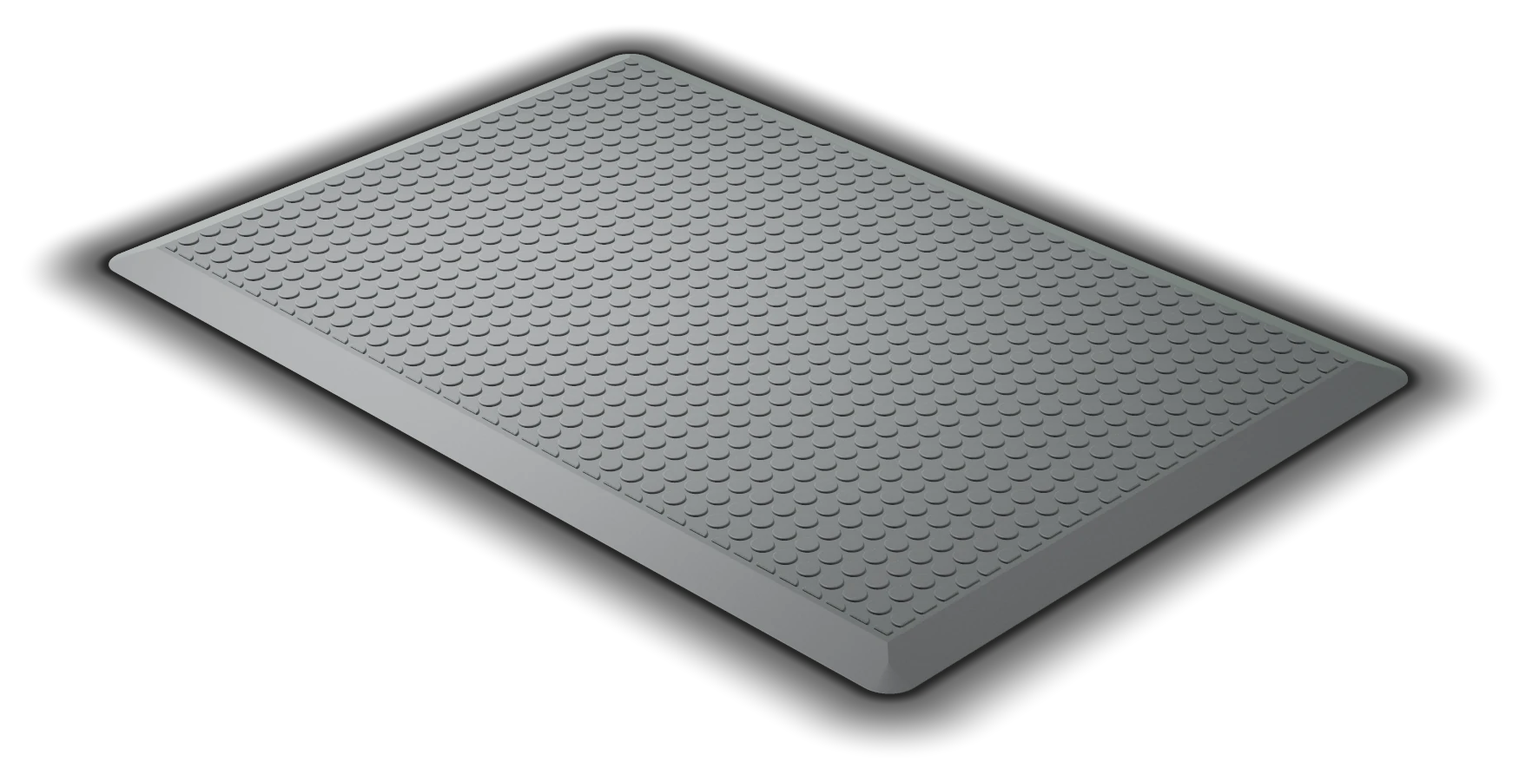
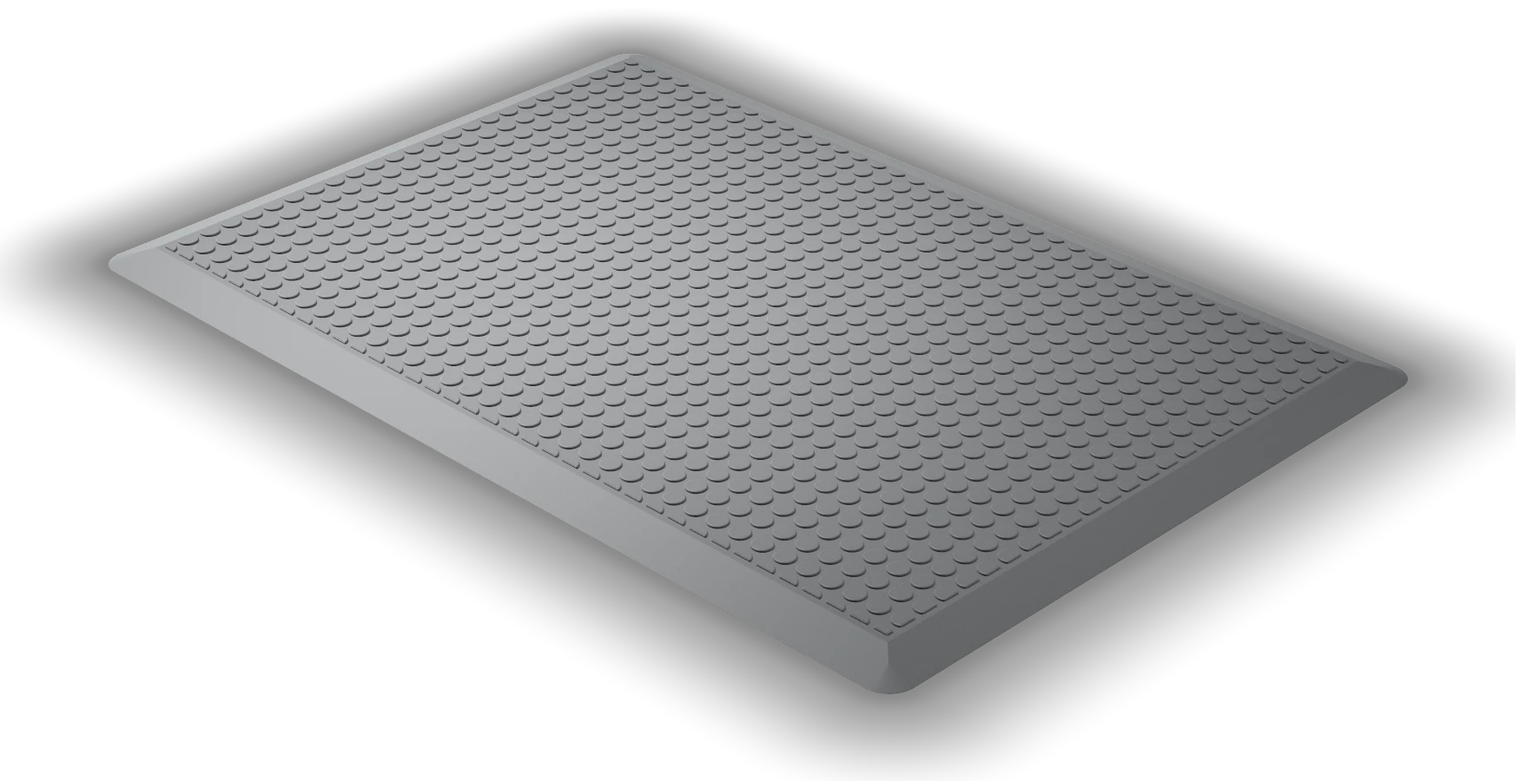
ergokomfort TOP-FIX (B): one-colour H1, neutral studio-lit mat, no glow, scrolls with the hero
H1 second line no longer italic or accent-coloured. Colours unchanged (logo
green). render_b.js re-renders the FN-PLUS mat exactly as sent (1792x1280,
SS3, crop 47,274): no green environment panel or green fresnel tint (a dim
neutral rim instead); the contact shadow is now faint, wide and soft.
field.js: the slate ambient glow and the breathing green pool are removed,
~3% neutral falloff, step 5 object scroll. The rebuild brings in the
sent-site loader exit from 8485a474.

Claude-Session: https://claude.ai/code/session_014388NGuukaXUUfs7gJG6bC

Changed region(s): [[0.0, 0.0, 1.0, 0.9956]]

diff --git a/_kit/home/ergokomfort/render_b.js b/_kit/home/ergokomfort/render_b.js
@@ -1,0 +1,110 @@
+/* Offline render of the Ergokomfort hero (HOME_BRIEF update option c, PRINCIPLES DS/DD/DT): the firm's own product, the
+   ERGOKOMFORT FN-PLUS workplace mat as specified on ergokomfort.de/arbeitsplatzmatten (about 96 x 66 cm, 12 mm, grey foamed
+   polyurethane, a field of flat round buttons, a bevelled ramp on every side). One calm object lying on an unseen floor, lit
+   by a studio softbox; raymarched in GLSL, real alpha including its soft contact shadow, so no box edge (DJ/DP).
+   Run: node _kit/home/ergokomfort/render.js out.png 1400 1000 3
+   TOP-FIX B (2026-11-27): render_b.js, neutral (no green env panel or fresnel tint), faint wide soft shadow.
+   Hero: node render_b.js out.png 1792 1280 3, crop (47,274,1796,1174). */
+const {chromium}=require('playwright');const fs=require('fs');const path=require('path');
+const W=+(process.argv[3]||1400),H=+(process.argv[4]||1100),SS=+(process.argv[5]||3);
+const FS=`
+precision highp float;
+uniform vec2 R;
+#define PI 3.14159265
+/* the ERGOKOMFORT FN-PLUS: about 96 x 66 cm, 12 mm, grey foamed PUR, flat round buttons, a bevelled ramp on every side */
+const float HX=.96,HZ=.66,TH=.030,BV=.075,PITCH=.048,BR=.0165,BH=.0026,CR=.05;
+float rb2(vec2 p,vec2 b,float r){vec2 q=abs(p)-b+r;return length(max(q,0.))+min(max(q.x,q.y),0.)-r;}
+float HIT=0.;
+float slab(vec3 p){
+  float e=-rb2(p.xz,vec2(HX,HZ),CR);           /* inward distance from the outer edge */
+  float top=TH*clamp(e/BV,0.,1.);              /* the bevel ramps up over BV, then the flat top */
+  top=mix(top,TH,0.)+.0016*smoothstep(0.,.006,e)*(1.-smoothstep(BV-.004,BV+.004,e))*0.;
+  float d=max(-e, max(-p.y, p.y-top));
+  return d*.55;}
+float btn(vec3 p){
+  float e=-rb2(p.xz,vec2(HX,HZ),CR);
+  vec2 g=p.xz/PITCH;vec2 c=(fract(g+.5)-.5)*PITCH;
+  float inside=step(BV+.012,e);
+  float r=length(c)-BR;float h=p.y-(TH+BH);
+  float d=length(max(vec2(r,h),0.))+min(max(r,h),0.)-.0022;
+  d=max(d,TH-.002-p.y);
+  return inside>.5?d:1.;}
+float map(vec3 p){float a=slab(p),b=btn(p);HIT=b<a?1.:0.;return min(a,b);}
+float mapd(vec3 p){float s=HIT;float d=map(p);HIT=s;return d;}
+vec3 nrm(vec3 p){vec2 e=vec2(.0004,0.);return normalize(vec3(mapd(p+e.xyy)-mapd(p-e.xyy),mapd(p+e.yxy)-mapd(p-e.yxy),mapd(p+e.yyx)-mapd(p-e.yyx)));}
+float box2(vec2 p,vec2 c,vec2 h,float s){vec2 d=abs(p-c)-h;float o=length(max(d,0.))+min(max(d.x,d.y),0.);return 1.-smoothstep(-s,s,o);}
+vec3 GR=vec3(.20,.70,.30);
+vec3 env(vec3 d){float az=atan(d.x,d.z),el=asin(clamp(d.y,-1.,1.));vec3 c=vec3(.006,.009,.008)+vec3(.03,.035,.034)*max(d.y,0.);
+  c+=vec3(1.,.99,.97)*1.8*box2(vec2(az,el),vec2(-.7,.95),vec2(.80,.35),.35);
+  c+=vec3(.95,.97,1.)*.6*box2(vec2(az,el),vec2(1.2,.35),vec2(.35,.22),.25);
+  /* TOP-FIX B: no green panel; a dim neutral rim box behind on the far side */
+  c+=vec3(.5)*box2(vec2(az,el),vec2(2.6,.15),vec2(.5,.4),.35);
+  return c;}
+vec3 L1=normalize(vec3(-.55,.85,.35)),L2=normalize(vec3(.75,.35,-.2));
+float ggx(vec3 n,vec3 v,vec3 l,float r){vec3 h=normalize(v+l);float a=r*r,nh=max(dot(n,h),0.);float dd=nh*nh*(a*a-1.)+1.;return a*a/(PI*dd*dd);}
+float ao(vec3 p,vec3 n){float o=0.,s=1.;for(int i=1;i<5;i++){float h=.004*float(i);o+=(h-mapd(p+n*h))*s;s*=.7;}return clamp(1.-6.*o,0.,1.);}
+float sha(vec3 p,vec3 l){float r=1.,t=.004;for(int i=0;i<64;i++){float h=mapd(p+l*t);r=min(r,14.*h/t);t+=clamp(h,.002,.05);if(r<.01||t>2.)break;}return clamp(r,0.,1.);}
+vec3 aces(vec3 x){return clamp((x*(2.51*x+.03))/(x*(2.43*x+.59)+.14),0.,1.);}
+vec4 trace(vec3 ro,vec3 rd){
+  float t=0.,d;bool hit=false;
+  /* start at the bounding box */
+  for(int i=0;i<400;i++){vec3 p=ro+rd*t;d=map(p);if(d<.00015){hit=true;break;}t+=d;if(t>12.)break;}
+  if(!hit){
+    /* a soft contact shadow on the (invisible) floor, as real alpha */
+    if(rd.y<0.){float tf=-ro.y/rd.y;vec3 q=ro+rd*tf;float e=rb2(q.xz,vec2(HX,HZ),CR);
+      /* TOP-FIX B: a very faint, wide, soft cast shadow (no dark rim hugging the edge) */
+      float s=(1.-smoothstep(-.02,.26,e))*.40+(1.-smoothstep(0.,.05,e))*.06;
+      float s2=1.-sha(q+vec3(0.,.001,0.),L1);s=max(s,s2*.22*(1.-smoothstep(0.,.5,e)));
+      return vec4(vec3(0.),clamp(s,0.,.85));}
+    return vec4(0.);}
+  vec3 p=ro+rd*t,v=-rd;float hb=HIT;vec3 n=nrm(p);
+  /* foamed PUR, mid grey; a faint micro-grain so it reads as a soft material, not plastic */
+  float gr=fract(sin(dot(floor(p.xz*900.),vec2(12.9898,78.233)))*43758.5453);
+  vec3 base=vec3(.135,.14,.145)*(.94+.1*gr);float rough=.66;
+  /* a studio pool of light: brightest toward the near-left corner, falling off across the mat */
+  float pool=mix(.30,1.35,exp(-dot(p.xz-vec2(-.35,.25),p.xz-vec2(-.35,.25))*1.1));
+  float oc=ao(p,n);vec3 col=vec3(0.);
+  float nv=max(dot(n,v),0.);vec3 F=vec3(.035)+(1.-vec3(.035))*pow(1.-nv,5.);
+  for(int i=0;i<2;i++){vec3 l=i==0?L1:L2;float k=i==0?1.5:.30;
+    float dl=max(dot(n,l),0.);float sh=i==0?mix(.15,1.,sha(p+n*.0015,l)):1.;
+    col+=k*sh*(i==0?pool:1.)*(base/PI*3.*dl+F*ggx(n,v,l,rough)*.9);}
+  vec3 r=reflect(rd,n);col+=env(r)*F*.6*oc;
+  col+=base*.06*oc;
+  col+=vec3(.04)*pow(1.-nv,3.)*oc;
+  col*=mix(.45,1.,oc);
+  return vec4(col,1.);}
+void main(){
+  vec3 ta=vec3(0.,0.,0.);
+  float az=.78,el=.50,dist=5.6;
+  vec3 ro0=ta+dist*vec3(sin(az)*cos(el),sin(el),cos(az)*cos(el));
+  vec3 ww=normalize(ta-ro0),uu=normalize(cross(ww,vec3(0,1,0))),vv=cross(uu,ww);
+  vec4 acc=vec4(0.);float n=float(${SS});
+  for(int j=0;j<${SS};j++)for(int i=0;i<${SS};i++){
+    vec2 o=(vec2(float(i),float(j))+.5)/n-.5;
+    vec2 uv=(gl_FragCoord.xy+o-.5*R)/R.y;
+    vec3 rd=normalize(uv.x*uu+uv.y*vv+2.9*ww);
+    vec4 s=trace(ro0,rd);acc+=vec4(s.rgb*s.a,s.a);}
+  acc/=n*n;vec3 c=acc.a>0.?acc.rgb/acc.a:vec3(0.);
+  c=pow(aces(c*1.12),vec3(1./2.2));
+  gl_FragColor=vec4(c,acc.a);}
+`;
+const PAGE=`<!doctype html><html><body style="margin:0;background:transparent"><canvas id="c" width="${W}" height="${H}"></canvas><script>
+const cv=document.getElementById('c');const gl=cv.getContext('webgl',{preserveDrawingBuffer:true,premultipliedAlpha:false,alpha:true,antialias:false});
+function sh(t,s){const o=gl.createShader(t);gl.shaderSource(o,s);gl.compileShader(o);if(!gl.getShaderParameter(o,gl.COMPILE_STATUS))throw Error(gl.getShaderInfoLog(o));return o}
+const pr=gl.createProgram();gl.attachShader(pr,sh(gl.VERTEX_SHADER,'attribute vec2 a;void main(){gl_Position=vec4(a,0.,1.);}'));
+gl.attachShader(pr,sh(gl.FRAGMENT_SHADER,${JSON.stringify(FS)}));gl.linkProgram(pr);if(!gl.getProgramParameter(pr,gl.LINK_STATUS))throw Error(gl.getProgramInfoLog(pr));gl.useProgram(pr);
+const b=gl.createBuffer();gl.bindBuffer(gl.ARRAY_BUFFER,b);gl.bufferData(gl.ARRAY_BUFFER,new Float32Array([-1,-1,1,-1,-1,1,1,1]),gl.STATIC_DRAW);
+const al=gl.getAttribLocation(pr,'a');gl.enableVertexAttribArray(al);gl.vertexAttribPointer(al,2,gl.FLOAT,false,0,0);
+gl.uniform2f(gl.getUniformLocation(pr,'R'),${W},${H});
+gl.clearColor(0,0,0,0);gl.clear(gl.COLOR_BUFFER_BIT);gl.enable(gl.SCISSOR_TEST);
+const T=40;let y=0;(function tile(){if(y>=${H}){window.__done=cv.toDataURL('image/png');return}gl.scissor(0,y,${W},T);gl.drawArrays(gl.TRIANGLE_STRIP,0,4);gl.finish();y+=T;setTimeout(tile,0)})();
+</script></body></html>`;
+(async()=>{
+const b=await chromium.launch({args:['--use-gl=angle','--use-angle=swiftshader','--enable-unsafe-swiftshader','--ignore-gpu-blocklist','--disable-gpu-watchdog']});
+const p=await b.newPage({viewport:{width:800,height:600}});
+p.on('console',m=>{if(!/Performance/.test(m.text()))console.log('page:',m.text())});p.on('pageerror',e=>{console.log('err',e.message);process.exit(1)});
+await p.setContent(PAGE);
+await p.waitForFunction(()=>window.__done,null,{timeout:3600000,polling:1000});
+const out=process.argv[2]||path.join(__dirname,'render.png');
+fs.writeFileSync(out,Buffer.from((await p.evaluate(()=>window.__done)).split(',')[1],'base64'));
+console.log('wrote',out);await b.close();})();

diff --git a/_kit/src/ergokomfort.src.html b/_kit/src/ergokomfort.src.html
@@ -866,6 +866,8 @@ div.mh-row{grid-template-columns:minmax(0,4fr) minmax(0,3fr) minmax(0,5fr) 24px}
 .ekl .w{color:#3fbf58}
 @media (max-width:560px){.hero-h{font-size:10.6vw}}
 .hero-h .ln-mask{padding-right:.3em;margin-right:-.3em}
+/* TOP-FIX 2026-11-27: the hero headline in one colour and one style (no italic accent second line) */
+.hero-h em{font-style:normal;font-weight:inherit;color:inherit}
 </style>
 </head>
 </head>
@@ -1107,10 +1109,10 @@ function unmask(s){if(!s)return;(s.masks||[]).forEach(function(m){m.style.overfl
 /*<R:field>*//* ================= HERO FIELD: a crafted render of Ergokomfort's own product (HOME_BRIEF update 2c): the ERGOKOMFORT
    FN-PLUS workplace mat (grey foamed PUR, flat buttons, bevelled edges, as specified on ergokomfort.de), raymarched offline
    by render.js with real alpha and its own soft contact shadow, baked to hero.webp; here it breathes in a slow Ken Burns
-   drift under a faint green-tinted pool of light. On phones it sits in the top band and fades into the ink above the text (CW). ================= */
+   drift (TOP-FIX B: render_b.js, neutral light, no green pool). On phones it sits in the top band and fades into the ink above the text (CW). ================= */
 var field=(function(){
   var cv=$("#field"),c=cv.getContext("2d"),dpr=1,w=0,h=0,running=false,raf=0,t0=performance.now(),shown=false;
-  var IN={v:1},dim=1,dimT=1,SP={v:0},G=null,img=new Image(),ok=false;
+  var IN={v:1},dim=1,dimT=1,SP={v:0},HY=0,G=null,img=new Image(),ok=false;
   var BG="#111714";
   img.decoding="async";img.onload=function(){ok=true;if(!running)frame(true)};img.src="hero.webp";
   function h1r(){var r=0;["#view .hero h1","#view .hero .eyebrow","#view .hero-foot p"].forEach(function(q){var e=document.querySelector(q);if(!e)return;try{var tw=document.createTreeWalker(e,4),n,g=document.createRange();while(n=tw.nextNode()){if(!n.nodeValue.trim())continue;g.selectNodeContents(n);[].forEach.call(g.getClientRects(),function(b){if(b.width>0&&b.right>r)r=b.right})}}catch(_){}});return r}
@@ -1138,17 +1140,13 @@ var field=(function(){
     if(ok){
       /* a very slow breath: push in ~3% and drift up a touch over ~44s, eased back and forth (scaled about the image centre) */
       var k=.5-.5*Math.cos(t*Math.PI*2/44),sc=(1+.03*k)*(1+.035*(1-e));
-      var dw=G.iw*sc,dh=G.ih*sc,x=G.kx-dw*.5,y=G.ky-dh*.5-k*G.ih*.008-SP.v*G.ih*.05;
-      /* a low slate glow, painted across the WHOLE canvas (never inside the image rect alone), so no edge of the
-         baked render can read as a pasted box (DJ) */
-      var ggx=G.mob?w*.5:G.kx,ggy=G.mob?G.bh*.45:h*.48,ggr=Math.max(w,h)*.7;
-      var ag=c.createRadialGradient(ggx,ggy,0,ggx,ggy,ggr);
-      ag.addColorStop(0,"rgba(32,46,38,"+(.6*e).toFixed(3)+")");ag.addColorStop(.55,"rgba(22,32,26,"+(.3*e).toFixed(3)+")");ag.addColorStop(1,"rgba(17,23,20,0)");
-      c.fillStyle=ag;c.fillRect(0,0,w,h);
-      /* a faint cool glow behind the stent, breathing every ~9s */
-      var pu=.5+.5*Math.sin(t*Math.PI*2/9),px=x+dw*LX,py=y+dh*LY,pr=dw*.40;
-      var rg=c.createRadialGradient(px,py,0,px,py,pr);rg.addColorStop(0,"rgba(130,210,140,"+((.045+.03*pu)*e).toFixed(3)+")");rg.addColorStop(1,"rgba(130,210,140,0)");
-      c.fillStyle=rg;c.fillRect(0,0,w,h);
+      var dw=G.iw*sc,dh=G.ih*sc,x=G.kx-dw*.5,y=G.ky-dh*.5-k*G.ih*.008+HY;
+      /* TOP-FIX B 2026-11-27: no glow or green pool. A very faint neutral falloff on the ground, up and toward the key
+         (upper left) side of the mat, at most ~3% brighter than the ink (no colour, no halo hugging the object) */
+      var fx=G.mob?w*.5:x+dw*.40,fy=G.mob?G.bh*.42:y+dh*.30,fr=Math.max(w,h)*.62;
+      var fo=c.createRadialGradient(fx,fy,0,fx,fy,fr);fo.addColorStop(0,"rgba(255,255,255,"+(.03*e).toFixed(4)+")");fo.addColorStop(.55,"rgba(255,255,255,"+(.011*e).toFixed(4)+")");fo.addColorStop(1,"rgba(255,255,255,0)");
+      c.fillStyle=fo;c.fillRect(0,0,w,h);
+      /* the render (render_b.js: neutral studio key from the upper left, fill, rim; a faint wide soft cast shadow) */
       c.globalAlpha=e;c.drawImage(img,x,y,dw,dh);c.globalAlpha=1;
       if(!G.mob){
         /* the headline side stays quiet (DI): an ink wash from the left, a soft top and base */
@@ -1169,7 +1167,11 @@ var field=(function(){
   var rzT;addEventListener("resize",function(){clearTimeout(rzT);rzT=setTimeout(size,120)});size();
   /* re-measure the headline once the web fonts and the title reveal have settled, so the 100px clearance holds (DP) */
   try{document.fonts.ready.then(function(){setTimeout(size,60)})}catch(_){}setTimeout(size,2600);setTimeout(size,6500);
-  return {start:start,stop:stop,once:function(){frame(true)},setScroll:function(p){SP.v=Math.round(p*40)/40},
+  return {start:start,stop:stop,once:function(){frame(true)},setScroll:function(p){SP.v=p;
+    /* TOP-FIX step 5 (2026-11-27): the object scrolls up 1:1 with the hero on desktop; 0 once the hero has left (footer echo) */
+    var hy=0,hr=G&&!G.mob?document.querySelector("#view #hero"):null;
+    if(hr){var b=hr.getBoundingClientRect();if(b.bottom>0)hy=Math.min(0,b.top)}
+    if(hy!==HY){HY=hy;frame(true)}},
     intro:function(d){if(RM){IN.v=1;return}IN.v=0;gsap.to(IN,{v:1,duration:d,ease:"power2.out"})},setDim:function(d){dimT=d},snapDim:function(d){dim=dimT=d},running:function(){return running},focus:function(){return G?[G.kx,G.ky]:[w/2,h/2]}};
 })();/*</R:field>*/
 
@@ -1500,7 +1502,7 @@ function preload(){
       var tl=gsap.timeline({onComplete:function(){pre.remove();unlockScroll();gsap.set("#hdr",{clearProps:"transform"});hdrTheme();failsafe()}});
       tl.to(o,{n:100,duration:.25,ease:"power1.out",onUpdate:upd},0)
         .to(wm.chars,{yPercent:-120,opacity:0,duration:.38,ease:"power3.in",stagger:.012},.08)
-        .to(["#pre .mk","#pre .cnt","#pre .bar","#pre .pl"],{opacity:0,duration:.3,ease:"power2.in"},.12)
+        .to("#pre .mk",{y:-64,opacity:0,duration:.62,ease:"power3.in"},.04).to(["#pre .cnt","#pre .bar","#pre .pl"],{y:-24,opacity:0,duration:.4,ease:"power2.in"},.1)
         .add(function(){field.intro(2);field.start()},mob?1.0:.95).fromTo("#field",{filter:"opacity(0)"},{filter:"opacity(1)",duration:1.8,ease:"power2.out",clearProps:"filter"},mob?1.0:.95)
         .add(function(){if(window._heroIn)window._heroIn.play()},mob?1.0:.95)
         .to(pre,{yPercent:-100,duration:.85,ease:"flow"},mob?.62:.42)

diff --git a/ergokomfort/index.html b/ergokomfort/index.html
@@ -874,6 +874,8 @@ div.mh-row{grid-template-columns:minmax(0,4fr) minmax(0,3fr) minmax(0,5fr) 24px}
 .ekl .w{color:#3fbf58}
 @media (max-width:560px){.hero-h{font-size:10.6vw}}
 .hero-h .ln-mask{padding-right:.3em;margin-right:-.3em}
+/* TOP-FIX 2026-11-27: the hero headline in one colour and one style (no italic accent second line) */
+.hero-h em{font-style:normal;font-weight:inherit;color:inherit}
 </style>
 </head>
 </head>
@@ -1675,10 +1677,10 @@ function unmask(s){if(!s)return;(s.masks||[]).forEach(function(m){m.style.overfl
 /*<R:field>*//* ================= HERO FIELD: a crafted render of Ergokomfort's own product (HOME_BRIEF update 2c): the ERGOKOMFORT
    FN-PLUS workplace mat (grey foamed PUR, flat buttons, bevelled edges, as specified on ergokomfort.de), raymarched offline
    by render.js with real alpha and its own soft contact shadow, baked to hero.webp; here it breathes in a slow Ken Burns
-   drift under a faint green-tinted pool of light. On phones it sits in the top band and fades into the ink above the text (CW). ================= */
+   drift (TOP-FIX B: render_b.js, neutral light, no green pool). On phones it sits in the top band and fades into the ink above the text (CW). ================= */
 var field=(function(){
   var cv=$("#field"),c=cv.getContext("2d"),dpr=1,w=0,h=0,running=false,raf=0,t0=performance.now(),shown=false;
-  var IN={v:1},dim=1,dimT=1,SP={v:0},G=null,img=new Image(),ok=false;
+  var IN={v:1},dim=1,dimT=1,SP={v:0},HY=0,G=null,img=new Image(),ok=false;
   var BG="#111714";
   img.decoding="async";img.onload=function(){ok=true;if(!running)frame(true)};img.src="hero.webp";
   function h1r(){var r=0;["#view .hero h1","#view .hero .eyebrow","#view .hero-foot p"].forEach(function(q){var e=document.querySelector(q);if(!e)return;try{var tw=document.createTreeWalker(e,4),n,g=document.createRange();while(n=tw.nextNode()){if(!n.nodeValue.trim())continue;g.selectNodeContents(n);[].forEach.call(g.getClientRects(),function(b){if(b.width>0&&b.right>r)r=b.right})}}catch(_){}});return r}
@@ -1706,17 +1708,13 @@ var field=(function(){
     if(ok){
       /* a very slow breath: push in ~3% and drift up a touch over ~44s, eased back and forth (scaled about the image centre) */
       var k=.5-.5*Math.cos(t*Math.PI*2/44),sc=(1+.03*k)*(1+.035*(1-e));
-      var dw=G.iw*sc,dh=G.ih*sc,x=G.kx-dw*.5,y=G.ky-dh*.5-k*G.ih*.008-SP.v*G.ih*.05;
-      /* a low slate glow, painted across the WHOLE canvas (never inside the image rect alone), so no edge of the
-         baked render can read as a pasted box (DJ) */
-      var ggx=G.mob?w*.5:G.kx,ggy=G.mob?G.bh*.45:h*.48,ggr=Math.max(w,h)*.7;
-      var ag=c.createRadialGradient(ggx,ggy,0,ggx,ggy,ggr);
-      ag.addColorStop(0,"rgba(32,46,38,"+(.6*e).toFixed(3)+")");ag.addColorStop(.55,"rgba(22,32,26,"+(.3*e).toFixed(3)+")");ag.addColorStop(1,"rgba(17,23,20,0)");
-      c.fillStyle=ag;c.fillRect(0,0,w,h);
-      /* a faint cool glow behind the stent, breathing every ~9s */
-      var pu=.5+.5*Math.sin(t*Math.PI*2/9),px=x+dw*LX,py=y+dh*LY,pr=dw*.40;
-      var rg=c.createRadialGradient(px,py,0,px,py,pr);rg.addColorStop(0,"rgba(130,210,140,"+((.045+.03*pu)*e).toFixed(3)+")");rg.addColorStop(1,"rgba(130,210,140,0)");
-      c.fillStyle=rg;c.fillRect(0,0,w,h);
+      var dw=G.iw*sc,dh=G.ih*sc,x=G.kx-dw*.5,y=G.ky-dh*.5-k*G.ih*.008+HY;
+      /* TOP-FIX B 2026-11-27: no glow or green pool. A very faint neutral falloff on the ground, up and toward the key
+         (upper left) side of the mat, at most ~3% brighter than the ink (no colour, no halo hugging the object) */
+      var fx=G.mob?w*.5:x+dw*.40,fy=G.mob?G.bh*.42:y+dh*.30,fr=Math.max(w,h)*.62;
+      var fo=c.createRadialGradient(fx,fy,0,fx,fy,fr);fo.addColorStop(0,"rgba(255,255,255,"+(.03*e).toFixed(4)+")");fo.addColorStop(.55,"rgba(255,255,255,"+(.011*e).toFixed(4)+")");fo.addColorStop(1,"rgba(255,255,255,0)");
+      c.fillStyle=fo;c.fillRect(0,0,w,h);
+      /* the render (render_b.js: neutral studio key from the upper left, fill, rim; a faint wide soft cast shadow) */
       c.globalAlpha=e;c.drawImage(img,x,y,dw,dh);c.globalAlpha=1;
       if(!G.mob){
         /* the headline side stays quiet (DI): an ink wash from the left, a soft top and base */
@@ -1737,7 +1735,11 @@ var field=(function(){
   var rzT;addEventListener("resize",function(){clearTimeout(rzT);rzT=setTimeout(size,120)});size();
   /* re-measure the headline once the web fonts and the title reveal have settled, so the 100px clearance holds (DP) */
   try{document.fonts.ready.then(function(){setTimeout(size,60)})}catch(_){}setTimeout(size,2600);setTimeout(size,6500);
-  return {start:start,stop:stop,once:function(){frame(true)},setScroll:function(p){SP.v=Math.round(p*40)/40},
+  return {start:start,stop:stop,once:function(){frame(true)},setScroll:function(p){SP.v=p;
+    /* TOP-FIX step 5 (2026-11-27): the object scrolls up 1:1 with the hero on desktop; 0 once the hero has left (footer echo) */
+    var hy=0,hr=G&&!G.mob?document.querySelector("#view #hero"):null;
+    if(hr){var b=hr.getBoundingClientRect();if(b.bottom>0)hy=Math.min(0,b.top)}
+    if(hy!==HY){HY=hy;frame(true)}},
     intro:function(d){if(RM){IN.v=1;return}IN.v=0;gsap.to(IN,{v:1,duration:d,ease:"power2.out"})},setDim:function(d){dimT=d},snapDim:function(d){dim=dimT=d},running:function(){return running},focus:function(){return G?[G.kx,G.ky]:[w/2,h/2]}};
 })();/*</R:field>*/
 
@@ -2068,7 +2070,7 @@ function preload(){
       var tl=gsap.timeline({onComplete:function(){pre.remove();unlockScroll();gsap.set("#hdr",{clearProps:"transform"});hdrTheme();failsafe()}});
       tl.to(o,{n:100,duration:.25,ease:"power1.out",onUpdate:upd},0)
         .to(wm.chars,{yPercent:-120,opacity:0,duration:.38,ease:"power3.in",stagger:.012},.08)
-        .to(["#pre .mk","#pre .cnt","#pre .bar","#pre .pl"],{opacity:0,duration:.3,ease:"power2.in"},.12)
+        .to("#pre .mk",{y:-64,opacity:0,duration:.62,ease:"power3.in"},.04).to(["#pre .cnt","#pre .bar","#pre .pl"],{y:-24,opacity:0,duration:.4,ease:"power2.in"},.1)
         .add(function(){field.intro(2);field.start()},mob?1.0:.95).fromTo("#field",{filter:"opacity(0)"},{filter:"opacity(1)",duration:1.8,ease:"power2.out",clearProps:"filter"},mob?1.0:.95)
         .add(function(){if(window._heroIn)window._heroIn.play()},mob?1.0:.95)
         .to(pre,{yPercent:-100,duration:.85,ease:"flow"},mob?.62:.42)

diff --git a/_kit/home/ergokomfort/field.js b/_kit/home/ergokomfort/field.js
@@ -1,10 +1,10 @@
 /* ================= HERO FIELD: a crafted render of Ergokomfort's own product (HOME_BRIEF update 2c): the ERGOKOMFORT
    FN-PLUS workplace mat (grey foamed PUR, flat buttons, bevelled edges, as specified on ergokomfort.de), raymarched offline
    by render.js with real alpha and its own soft contact shadow, baked to hero.webp; here it breathes in a slow Ken Burns
-   drift under a faint green-tinted pool of light. On phones it sits in the top band and fades into the ink above the text (CW). ================= */
+   drift (TOP-FIX B: render_b.js, neutral light, no green pool). On phones it sits in the top band and fades into the ink above the text (CW). ================= */
 var field=(function(){
   var cv=$("#field"),c=cv.getContext("2d"),dpr=1,w=0,h=0,running=false,raf=0,t0=performance.now(),shown=false;
-  var IN={v:1},dim=1,dimT=1,SP={v:0},G=null,img=new Image(),ok=false;
+  var IN={v:1},dim=1,dimT=1,SP={v:0},HY=0,G=null,img=new Image(),ok=false;
   var BG="#111714";
   img.decoding="async";img.onload=function(){ok=true;if(!running)frame(true)};img.src="hero.webp";
   function h1r(){var r=0;["#view .hero h1","#view .hero .eyebrow","#view .hero-foot p"].forEach(function(q){var e=document.querySelector(q);if(!e)return;try{var tw=document.createTreeWalker(e,4),n,g=document.createRange();while(n=tw.nextNode()){if(!n.nodeValue.trim())continue;g.selectNodeContents(n);[].forEach.call(g.getClientRects(),function(b){if(b.width>0&&b.right>r)r=b.right})}}catch(_){}});return r}
@@ -32,17 +32,13 @@ var field=(function(){
     if(ok){
       /* a very slow breath: push in ~3% and drift up a touch over ~44s, eased back and forth (scaled about the image centre) */
       var k=.5-.5*Math.cos(t*Math.PI*2/44),sc=(1+.03*k)*(1+.035*(1-e));
-      var dw=G.iw*sc,dh=G.ih*sc,x=G.kx-dw*.5,y=G.ky-dh*.5-k*G.ih*.008-SP.v*G.ih*.05;
-      /* a low slate glow, painted across the WHOLE canvas (never inside the image rect alone), so no edge of the
-         baked render can read as a pasted box (DJ) */
-      var ggx=G.mob?w*.5:G.kx,ggy=G.mob?G.bh*.45:h*.48,ggr=Math.max(w,h)*.7;
-      var ag=c.createRadialGradient(ggx,ggy,0,ggx,ggy,ggr);
-      ag.addColorStop(0,"rgba(32,46,38,"+(.6*e).toFixed(3)+")");ag.addColorStop(.55,"rgba(22,32,26,"+(.3*e).toFixed(3)+")");ag.addColorStop(1,"rgba(17,23,20,0)");
-      c.fillStyle=ag;c.fillRect(0,0,w,h);
-      /* a faint cool glow behind the stent, breathing every ~9s */
-      var pu=.5+.5*Math.sin(t*Math.PI*2/9),px=x+dw*LX,py=y+dh*LY,pr=dw*.40;
-      var rg=c.createRadialGradient(px,py,0,px,py,pr);rg.addColorStop(0,"rgba(130,210,140,"+((.045+.03*pu)*e).toFixed(3)+")");rg.addColorStop(1,"rgba(130,210,140,0)");
-      c.fillStyle=rg;c.fillRect(0,0,w,h);
+      var dw=G.iw*sc,dh=G.ih*sc,x=G.kx-dw*.5,y=G.ky-dh*.5-k*G.ih*.008+HY;
+      /* TOP-FIX B 2026-11-27: no glow or green pool. A very faint neutral falloff on the ground, up and toward the key
+         (upper left) side of the mat, at most ~3% brighter than the ink (no colour, no halo hugging the object) */
+      var fx=G.mob?w*.5:x+dw*.40,fy=G.mob?G.bh*.42:y+dh*.30,fr=Math.max(w,h)*.62;
+      var fo=c.createRadialGradient(fx,fy,0,fx,fy,fr);fo.addColorStop(0,"rgba(255,255,255,"+(.03*e).toFixed(4)+")");fo.addColorStop(.55,"rgba(255,255,255,"+(.011*e).toFixed(4)+")");fo.addColorStop(1,"rgba(255,255,255,0)");
+      c.fillStyle=fo;c.fillRect(0,0,w,h);
+      /* the render (render_b.js: neutral studio key from the upper left, fill, rim; a faint wide soft cast shadow) */
       c.globalAlpha=e;c.drawImage(img,x,y,dw,dh);c.globalAlpha=1;
       if(!G.mob){
         /* the headline side stays quiet (DI): an ink wash from the left, a soft top and base */
@@ -63,6 +59,10 @@ var field=(function(){
   var rzT;addEventListener("resize",function(){clearTimeout(rzT);rzT=setTimeout(size,120)});size();
   /* re-measure the headline once the web fonts and the title reveal have settled, so the 100px clearance holds (DP) */
   try{document.fonts.ready.then(function(){setTimeout(size,60)})}catch(_){}setTimeout(size,2600);setTimeout(size,6500);
-  return {start:start,stop:stop,once:function(){frame(true)},setScroll:function(p){SP.v=Math.round(p*40)/40},
+  return {start:start,stop:stop,once:function(){frame(true)},setScroll:function(p){SP.v=p;
+    /* TOP-FIX step 5 (2026-11-27): the object scrolls up 1:1 with the hero on desktop; 0 once the hero has left (footer echo) */
+    var hy=0,hr=G&&!G.mob?document.querySelector("#view #hero"):null;
+    if(hr){var b=hr.getBoundingClientRect();if(b.bottom>0)hy=Math.min(0,b.top)}
+    if(hy!==HY){HY=hy;frame(true)}},
     intro:function(d){if(RM){IN.v=1;return}IN.v=0;gsap.to(IN,{v:1,duration:d,ease:"power2.out"})},setDim:function(d){dimT=d},snapDim:function(d){dim=dimT=d},running:function(){return running},focus:function(){return G?[G.kx,G.ky]:[w/2,h/2]}};
 })();

diff --git a/_kit/home/ergokomfort/extra.css b/_kit/home/ergokomfort/extra.css
@@ -233,3 +233,5 @@ div.mh-row{grid-template-columns:minmax(0,4fr) minmax(0,3fr) minmax(0,5fr) 24px}
 .ekl .w{color:#3fbf58}
 @media (max-width:560px){.hero-h{font-size:10.6vw}}
 .hero-h .ln-mask{padding-right:.3em;margin-right:-.3em}
+/* TOP-FIX 2026-11-27: the hero headline in one colour and one style (no italic accent second line) */
+.hero-h em{font-style:normal;font-weight:inherit;color:inherit}
